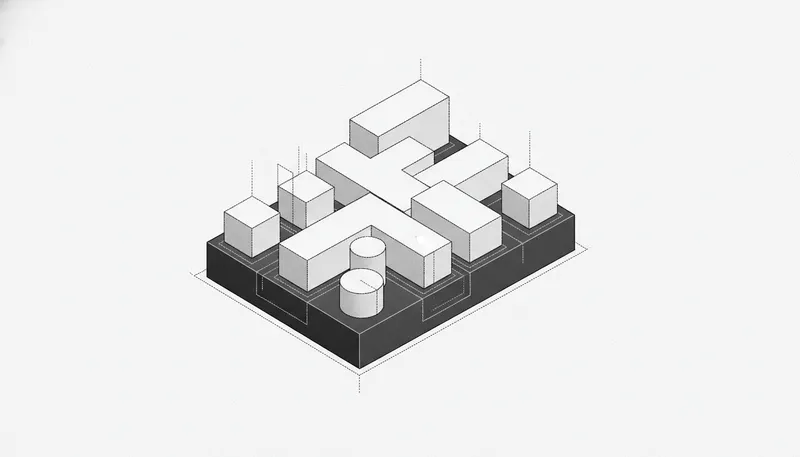
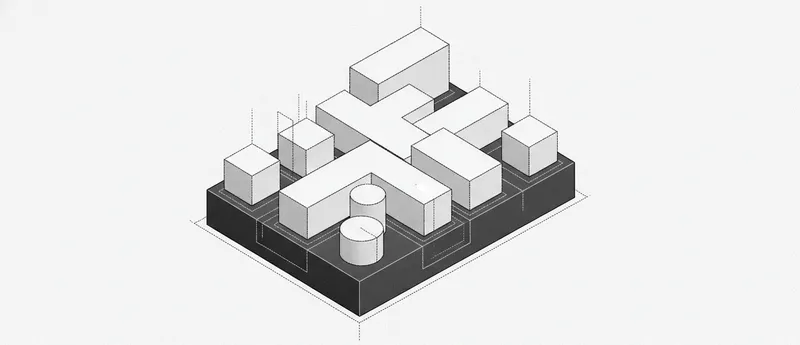
Recorta la portada de /erpnext a formato banda
A 16:9 y a todo el ancho de una columna de 900 px, la imagen medía 514 px de
alto y se comía media pantalla antes de que el lector llegara al argumento. La
de las páginas de integración mide 422 en una columna de 750: la diferencia no
era la proporción, era el ancho de la columna.

Recortada a 1344×580 (~2,3:1), baja a 388 px renderizada. El motivo iba centrado
con mucho aire muerto arriba y abajo, así que el recorte no pierde dibujo —
mejora la composición.

No más agresivo a propósito: una banda de 2,6:1 cortaba el bloque más alto justo
en el borde superior, y eso se lee como un error en vez de como un encuadre. El
recorte va de y=88 a y=668, que contiene el motivo entero incluidas las líneas
de guía.

El width/height declarados se actualizan al recorte real: si no coinciden, el
navegador reserva mal el espacio y la página salta al cargar la imagen.

diff --git a/docs/plan-web.md b/docs/plan-web.md
@@ -1199,9 +1199,22 @@ Elegida la variante con más contraste (desviación de luminancia 43 frente a 29
 diminuto —en una columna de 900 px se habría leído como un garabato— y porque su
 tono crema no es el blanco del sitio.
 
-**Conversión: 1.553 KB de PNG → 52 KB de WebP** a 1344 px, más una versión de
-800 px (12 KB) para móvil vía `srcset`. Servir 1344 a un teléfono es tirar ancho
-de banda, y el ancho máximo de la columna son 900 px.
+**Recortada a banda (1344×580, ~2,3:1)** y no dejada en 16:9. El motivo iba
+centrado con mucho aire muerto arriba y abajo, así que el recorte no pierde
+dibujo: mejora la composición. Y sobre todo, una imagen 16:9 a todo el ancho de
+una columna de 900 px mide 514 px de alto y se come media pantalla antes de que
+el lector llegue al argumento — la de `mcp-ia`, en una columna de 750, mide 422.
+Recortada baja a **388 px**.
+
+El recorte va de y=88 a y=668 del original y no más agresivo a propósito: una
+banda de 2,6:1 cortaba el bloque más alto justo en el borde, y eso se lee como
+un error en vez de como un encuadre.
+
+**Conversión: 1.553 KB de PNG → 45 KB de WebP**, más una versión de 800 px
+(12 KB) para móvil vía `srcset`. Servir 1344 a un teléfono es tirar ancho de
+banda, y el ancho máximo de la columna son 900 px. El `width`/`height`
+declarados coinciden con el recorte real, o el navegador reservaría mal el
+espacio y la página saltaría al cargar.
 
 Sin `loading="lazy"` a propósito: está en la primera pantalla, y diferir lo que
 ya se ve retrasa el pintado en vez de adelantarlo.
